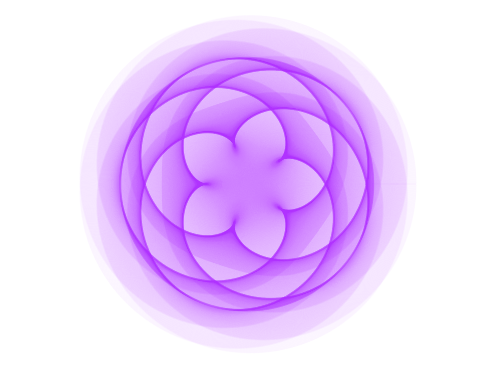
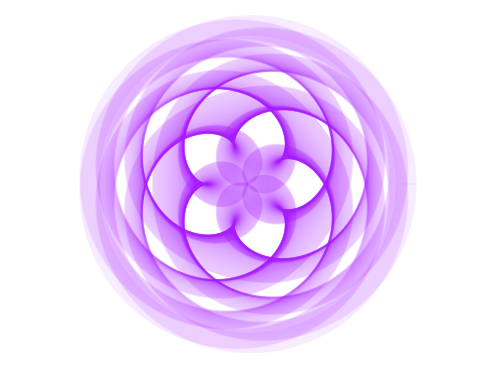
Update roses

Changed region(s): [[0.1512, 0.0596, 0.8468, 0.9539]]

diff --git a/_art/planet-rosella.md b/_art/planet-rosella.md
@@ -7,10 +7,10 @@ priority: 5.3
 description: ""
 ---
 
-I wanted to make something for my mom's birthday. Her name is Rosella and her favorite color is purple, so I thought it would be fun to make a purple rose-inspired image. 
+I wanted to create something for my mom's birthday. Her name is Rosella, and her favorite color is purple, which inspired me to design an image with a rose motif.
 
 ## Technical Implementation
-The image is created by simulating the orbits of two planets. At discrete time intervals, a line is drawn from one planet toward the other, extending from the inner planet out to 70% of outer planet. The idea came from Professor McClure's <a href="https://marksmath.org/visualization/dance_of_earth_and_venus.html" target="_blank">Dance of Earth and Venus</a>. Another rose-inspired image is [here](https://mattmotoki.github.io/art/rosella-curves.html).
+The image is created by simulating the idealized orbits of two planets. At discrete time intervals, a line is drawn from one planet toward the other, extending from 40% of the inner planet to 70% of the outer planet. The idea came from Professor McClure's <a href="https://marksmath.org/visualization/dance_of_earth_and_venus.html" target="_blank">Dance of Earth and Venus</a>. Another rose-inspired image is [here](https://mattmotoki.github.io/art/rosella-curves.html).
 
 ```python
 import numpy as np
@@ -23,9 +23,9 @@ for xi, xo, yi, yo in zip(
     np.cos(12*t), 1.5*np.cos(7*t),
     np.sin(12*t), 1.5*np.sin(7*t),
 ):
-    x = np.linspace(xi, xo, 10)[:7]
-    y = np.linspace(yi, yo, 10)[:7]    
-    plt.plot(x, y, '#9D00FF05')
+    x = np.linspace(xi, xo, 11)[4:8]
+    y = np.linspace(yi, yo, 11)[4:8]    
+    plt.plot(x, y, '#9D00FF09')
 plt.axis('equal')
 plt.axis('off') 
 plt.show()

diff --git a/_art/rosella-curves.md b/_art/rosella-curves.md
@@ -7,7 +7,7 @@ priority: 5.1
 description: ""
 ---
 
-I wanted to make something for my mom's birthday. Her name is Rosella and her favorite color is purple, so I thought it would be fun to make a purple rose-inspired image. 
+I wanted to create something for my mom's birthday. Her name is Rosella, and her favorite color is purple, which inspired me to design an image with a rose motif.
 
 ## Technical Implementation
 The image is created using a variant of <a href="https://en.wikipedia.org/wiki/Rose_(mathematics)" target="_blank">rose curves</a> where the radius is also a function of the angle. The image uses 8 curves with radii chosen so that the curves are connected. The result is a single curve resembling an abstract rose. Another rose-inspired image is [here](https://mattmotoki.github.io/art/planet-rosella.html).

diff --git a/_art/broken-pendulum.md b/_art/broken-pendulum.md
@@ -34,15 +34,14 @@ for idx, params in enumerate([
     [2, '-', 1, 2, '*', 1, (0, 1, 0, 1), 5, 5],
     [1, '+', 2, 0, '-', 2, (0, 1, 3, 5), 2, 1],
 ]):
-
     dimx0, opx, dimx1, dimy0, opy, dimy1, init_cond, eta, c = params
     sol = odeint(derivatives, init_cond, np.linspace(0, 100, 10000))    
     x = eval(f'np.sin(sol[:,{dimx0}]) {opx} np.cos(sol[:,{dimx1}])')
     y = eval(f'np.sin(sol[:,{dimy0}]) {opy} np.sin(sol[:,{dimy1}])')
 
     plt.subplot(1, 3, idx+1)
-    plt.plot(x, y, '#0809', linewidth=0.75)
-    plt.title(str(params).replace(' ', ''), color='#080')
+    plt.plot(x, y, 'g', linewidth=1)
+    plt.title(str(params).replace(' ', ''), color='g')
     plt.axis('off')
 plt.tight_layout()
 plt.show()
